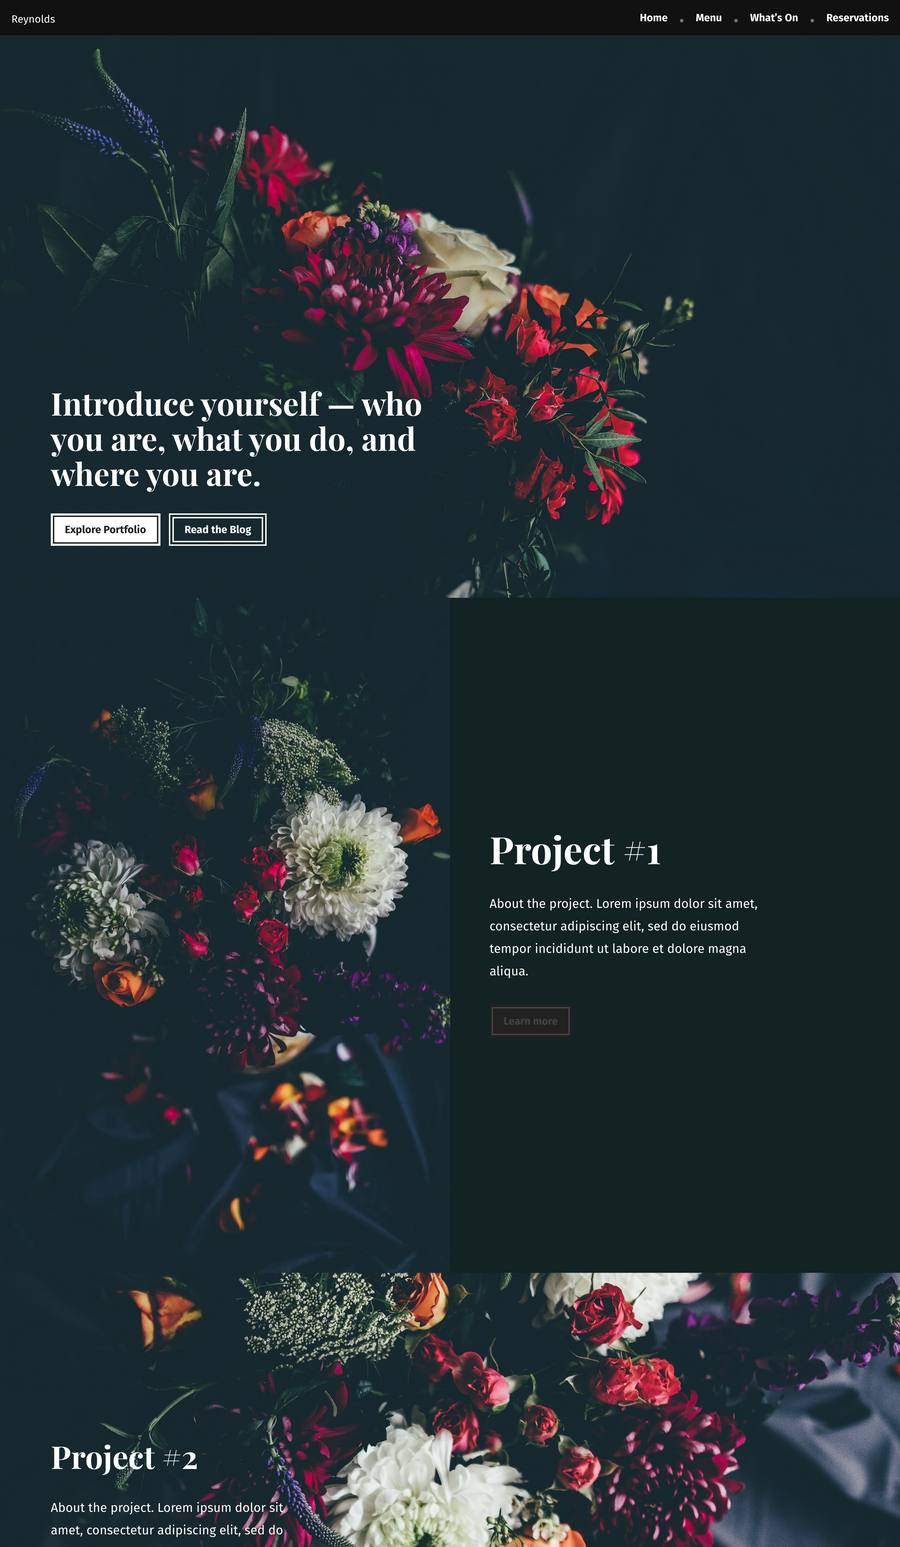
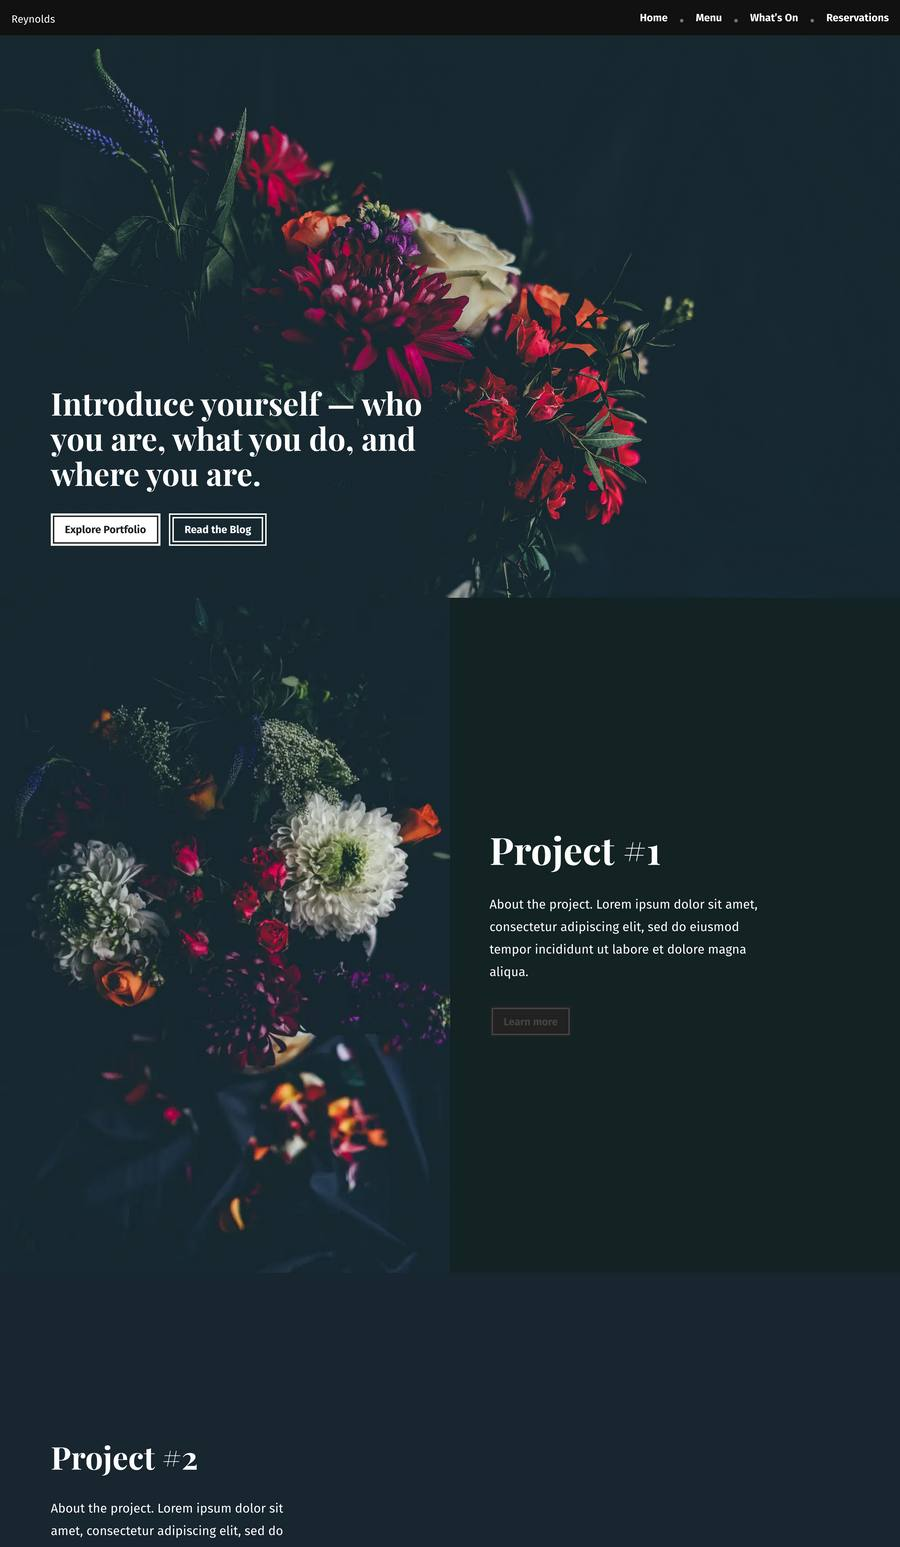
Gutenboarding: add new template designs (#42354)
* initial commit: testing the template settings

* Updating fonts based on what I'm seeing in the fonts network traffic

* Adding a slot for Twenty Twenty

* rebase and adding 2 x new templaters

* Added the remaining templates/themes/designs ?

* Adding preview template images

* When the "gutenboarding/edge-templates" feature flag is true, show the new, probably not-yet-working templates.
Turned on for dev, stage, wpcalypso and horizon environments. That is, NOT PROD :)

Removing explicit reference to `featured` property in designs object usage. We might one day want to use various collection in that object, but I did it mainly to satisfy the requirements of the feature flag :)

regenerating the design screenshots

Regenerating at 900w at 72% quality

Removed twenty twenty

* Update stage.json

* update rockfield preview

* Updated font name case

* Renaming is_edge to is_alpha to describe new Gutenboarding designs, and to make sure we don't confuse labels with Gutenberg edge

diff --git a/client/landing/gutenboarding/available-designs.ts b/client/landing/gutenboarding/available-designs.ts
@@ -38,7 +38,7 @@ export const getDesignImageUrl = ( design: Design ) => {
  */
 export function prefetchDesignThumbs() {
 	if ( typeof window !== 'undefined' ) {
-		availableDesigns.featured.forEach( ( design: Design ) => {
+		getAvailableDesigns().featured.forEach( ( design: Design ) => {
 			const href = getDesignImageUrl( design );
 			const link = document.createElement( 'link' );
 			link.rel = 'prefetch';
@@ -49,4 +49,17 @@ export function prefetchDesignThumbs() {
 	}
 }
 
-export default availableDesigns;
+export function getAvailableDesigns(
+	includeEdgeDesigns: boolean = isEnabled( 'gutenboarding/edge-templates' )
+) {
+	if ( includeEdgeDesigns ) {
+		return availableDesigns;
+	}
+
+	return {
+		...availableDesigns,
+		featured: availableDesigns.featured.filter( ( design ) => ! design.is_alpha ),
+	};
+}
+
+export default getAvailableDesigns();

diff --git a/client/landing/gutenboarding/stores/onboard/types.ts b/client/landing/gutenboarding/stores/onboard/types.ts
@@ -38,4 +38,5 @@ export interface Design {
 	fonts: FontPair;
 	categories: Array< string >;
 	is_premium: boolean;
+	is_alpha?: boolean;
 }
